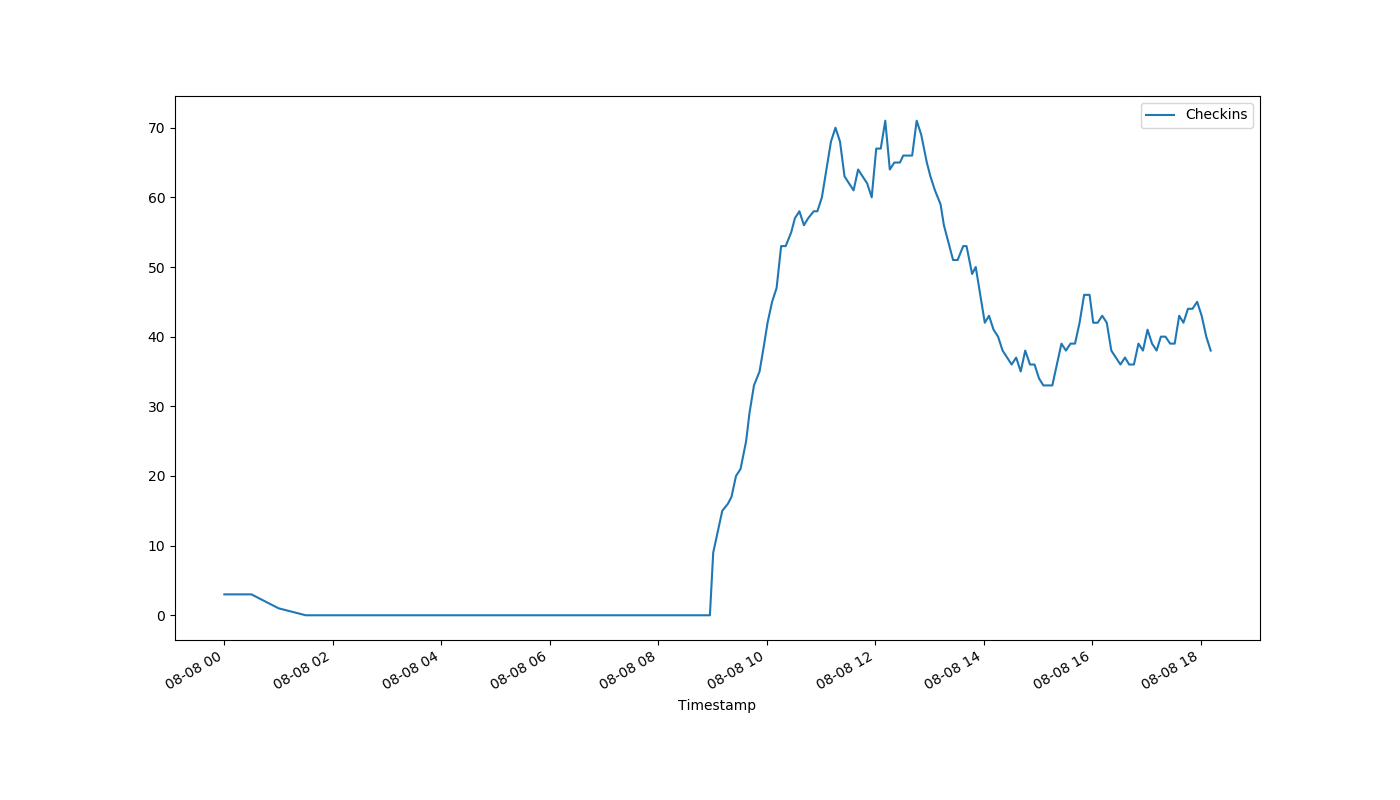
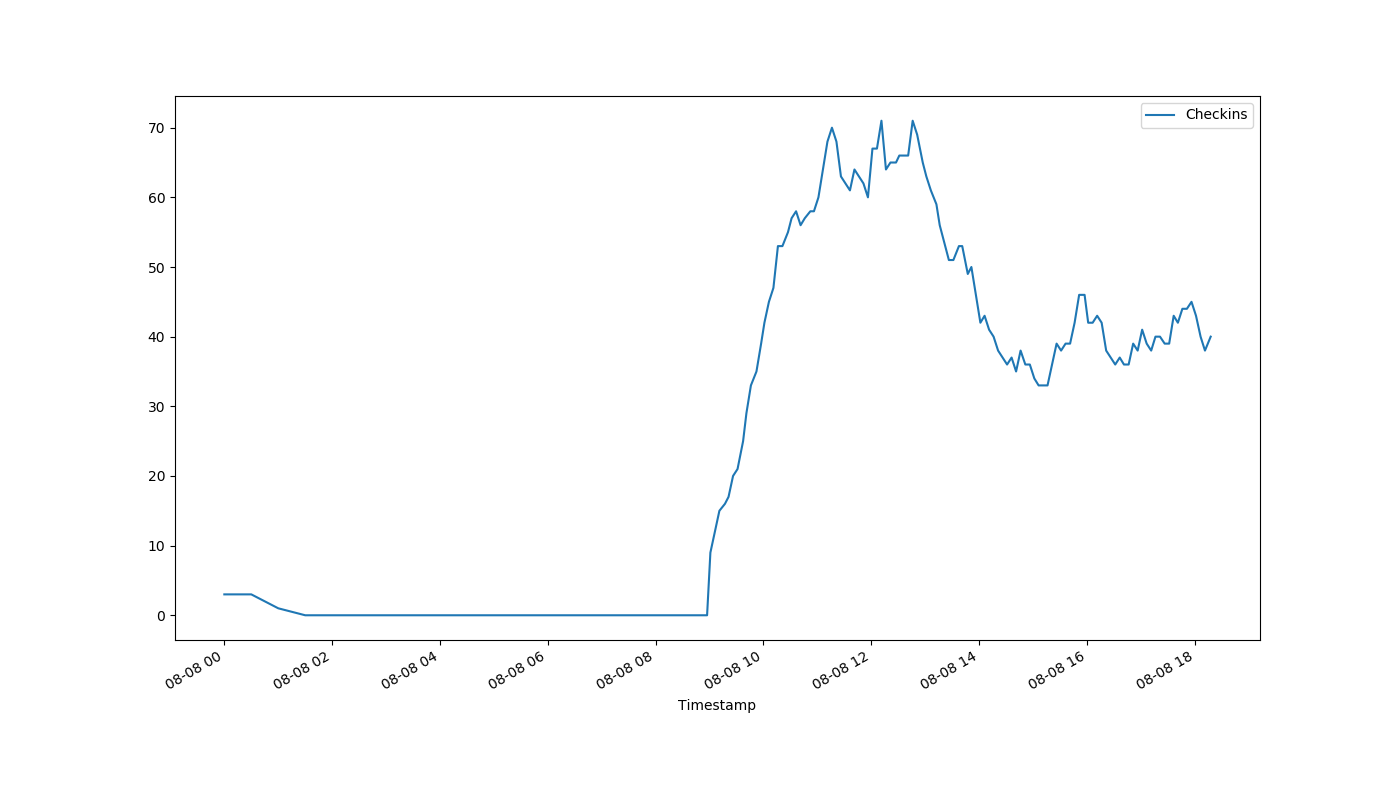
auto-Aug-08-18:18:40

diff --git a/index.html b/index.html
@@ -1,1 +1,1 @@
-<!DOCTYPE html><html><head><meta http-equiv="refresh" content="30"><link rel='stylesheet' href='holmcurrent.css'></head><body><p id='count'>38</p><div id='graph-wrap'><img id='graph' src='holmgraph-Aug-08.png'></div><p id='updated'>Last updated 18:12:04 / 18:11:08</p></body></html>
+<!DOCTYPE html><html><head><meta http-equiv="refresh" content="30"><link rel='stylesheet' href='holmcurrent.css'></head><body><p id='count'>40</p><div id='graph-wrap'><img id='graph' src='holmgraph-Aug-08.png'></div><p id='updated'>Last updated 18:18:05 / 18:17:29</p></body></html>
